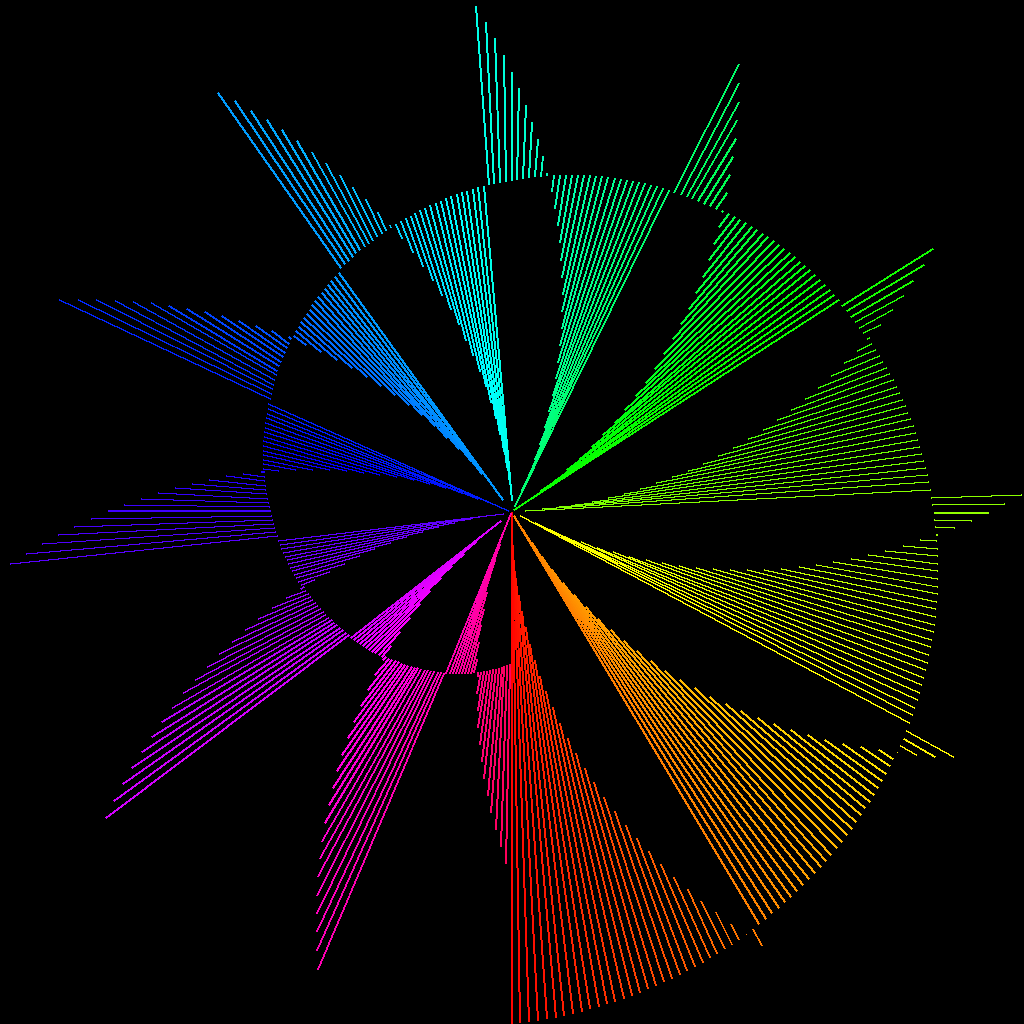
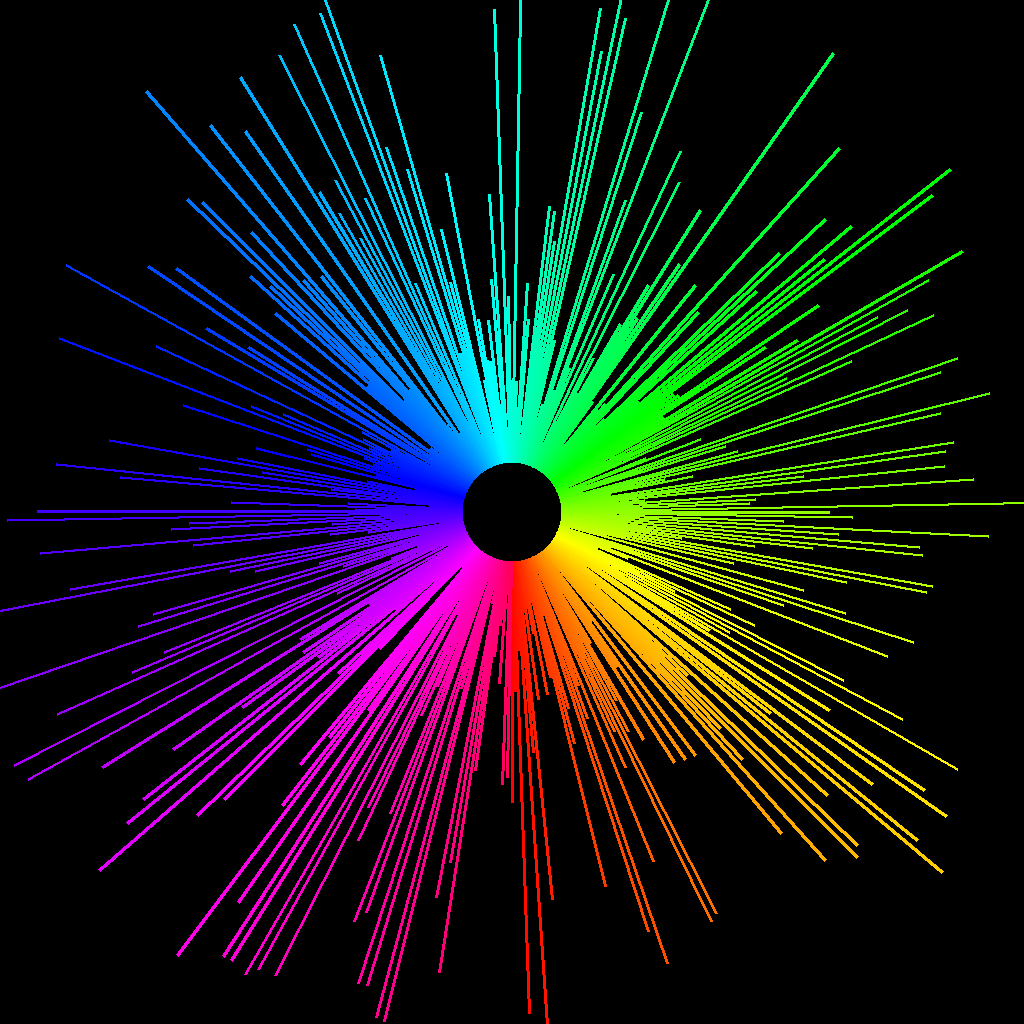
random_splash

diff --git a/generate.py b/generate.py
@@ -38,9 +38,8 @@ img = Image.new("RGB",(RES_X,RES_Y))
 draw = ImageDraw.Draw(img)
 color = (255,0,0)
 for i in range(0, 360):
-    x1, y1 = point_circle(OUTER_RADIUS-(i), i)
-    x2, y2 = point_circle(INNER_RADIUS*(i/3)%OUTER_RADIUS, i)
+    p1 = point_circle(OUTER_RADIUS-(random.random()*OUTER_RADIUS-INNER_RADIUS), i)
+    p2 = point_circle(INNER_RADIUS, i)
     color = next_color(color, 4)
-    print(color)
-    draw.line((x1, y1, x2, y2), color, width = 2)
+    draw.line([p1,p2], color, width = 3)
 img.save("result.png")
